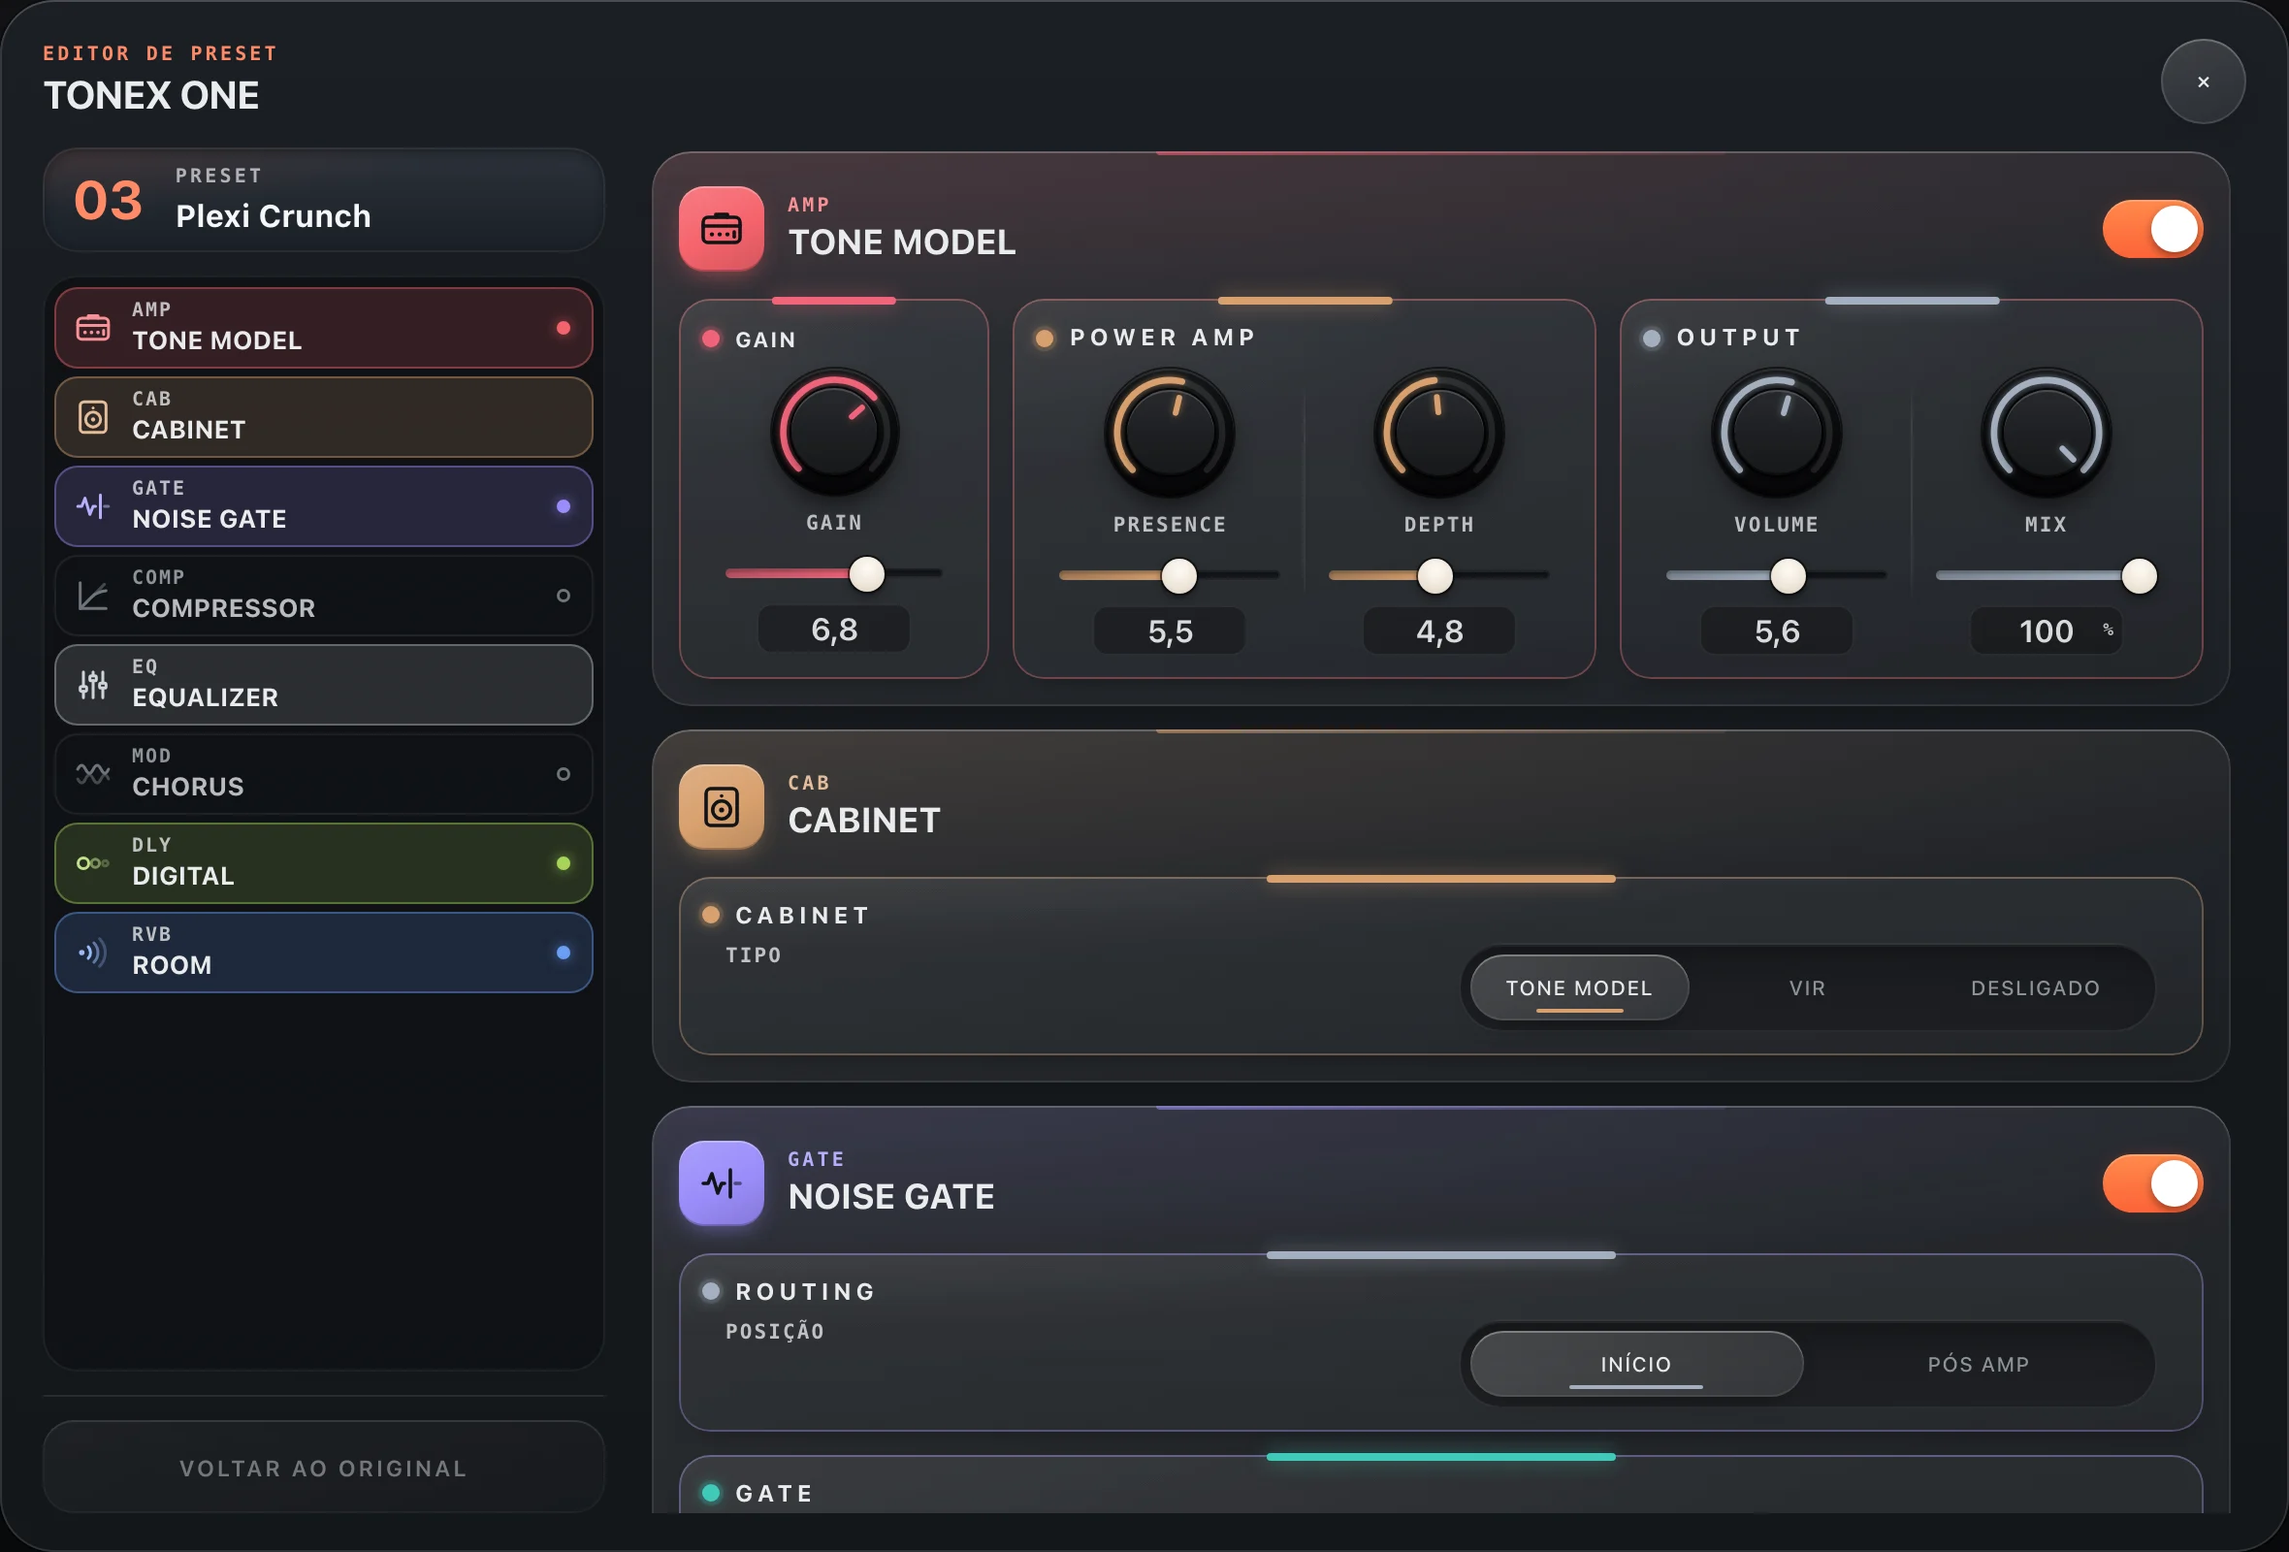
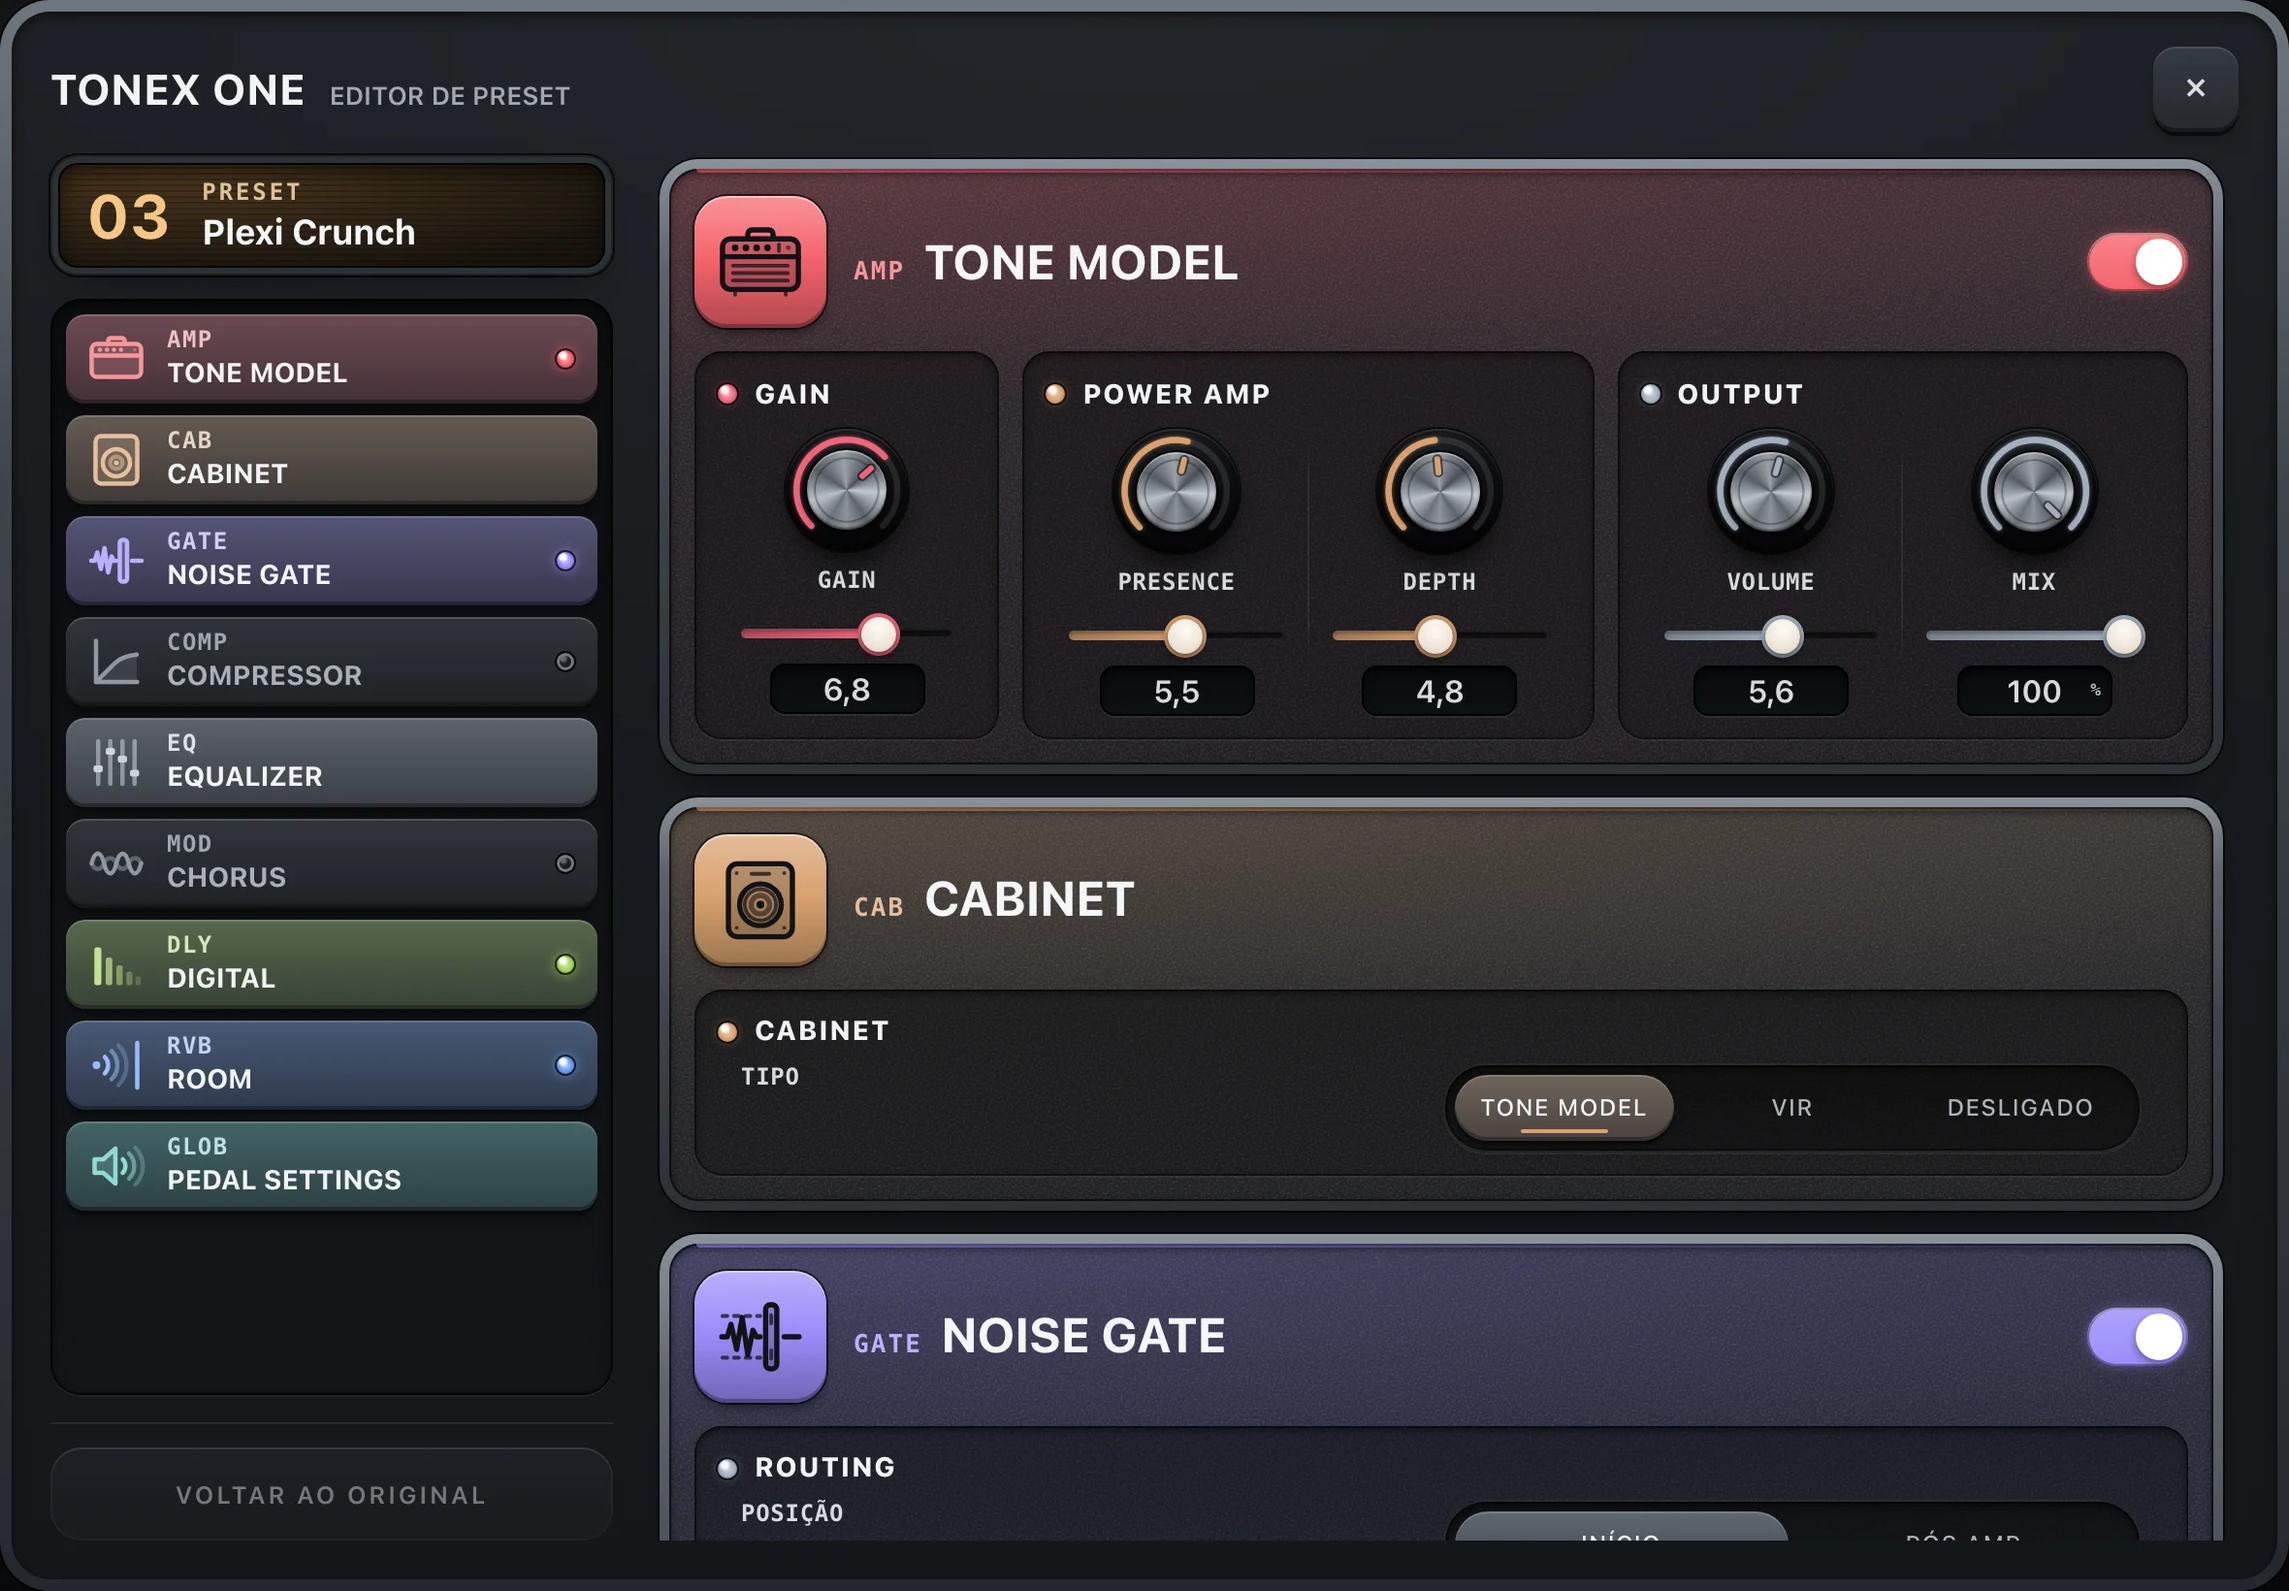
manual 2026-11-20 09:56

diff --git a/js/content.js b/js/content.js
@@ -7324,9 +7324,9 @@ const MN_CONTENT = {
     "es": "Edita en vivo el sonido de la Valeton GP-5 y GP-50, la IK TONEX ONE, la Neural DSP Nano Cortex y el Kemper Player — desde la propia BFMiDi, sin el software de computadora del fabricante."
    },
    "intro": {
-    "pt": "<p>Com o aparelho ligado na controladora, o editor da BFMiDi mostra o <strong>preset que está tocando no aparelho</strong> — blocos, modelos e parâmetros — e manda cada ajuste na hora, como os apps dos fabricantes.</p><p>A GP-5, a TONEX ONE e a Nano Cortex se ligam na porta <strong>USB HOST</strong> da controladora (BFMIDI-3 e BFMIDI-S3). O Kemper Player é ligado no contrário: a porta <strong>DEVICE</strong> da controladora na porta USB do Player.</p>",
-    "en": "<p>With the device connected to the controller, the BFMiDi editor shows the <strong>preset playing on the device</strong> — blocks, models and parameters — and sends each change instantly, just like the manufacturers' apps.</p><p>The GP-5, the TONEX ONE and the Nano Cortex plug into the controller's <strong>USB HOST</strong> port (BFMIDI-3 and BFMIDI-S3). The Kemper Player connects the other way around: the controller's <strong>DEVICE</strong> port goes into the Player's USB port.</p>",
-    "es": "<p>Con el aparato conectado a la controladora, el editor de la BFMiDi muestra el <strong>preset que está sonando en el aparato</strong> — bloques, modelos y parámetros — y envía cada ajuste al instante, como las apps de los fabricantes.</p><p>La GP-5, la TONEX ONE y la Nano Cortex se conectan al puerto <strong>USB HOST</strong> de la controladora (BFMIDI-3 y BFMIDI-S3). El Kemper Player se conecta al revés: el puerto <strong>DEVICE</strong> de la controladora va al puerto USB del Player.</p>"
+    "pt": "<p>Com o aparelho ligado na controladora, o editor da BFMiDi mostra o <strong>preset que está tocando no aparelho</strong> — blocos, modelos e parâmetros — e manda cada ajuste na hora, como os apps dos fabricantes.</p><p>O editor tem a cara de um aparelho: um visor com o preset, a cadeia de efeitos em teclas com LED (aceso = ligado) e cada efeito numa placa própria. No computador e no tablet ele abre numa janela, com o visor e a cadeia à esquerda e os efeitos à direita; no celular ocupa a tela inteira.</p><p>A GP-5, a TONEX ONE e a Nano Cortex se ligam na porta <strong>USB HOST</strong> da controladora (BFMIDI-3 e BFMIDI-S3). O Kemper Player é ligado no contrário: a porta <strong>DEVICE</strong> da controladora na porta USB do Player.</p>",
+    "en": "<p>With the device connected to the controller, the BFMiDi editor shows the <strong>preset playing on the device</strong> — blocks, models and parameters — and sends each change instantly, just like the manufacturers' apps.</p><p>The editor looks like a device: a display with the preset, the effect chain as keys with LEDs (lit = on) and each effect on its own plate. On a computer or tablet it opens in a window, with the display and the chain on the left and the effects on the right; on a phone it fills the whole screen.</p><p>The GP-5, the TONEX ONE and the Nano Cortex plug into the controller's <strong>USB HOST</strong> port (BFMIDI-3 and BFMIDI-S3). The Kemper Player connects the other way around: the controller's <strong>DEVICE</strong> port goes into the Player's USB port.</p>",
+    "es": "<p>Con el aparato conectado a la controladora, el editor de la BFMiDi muestra el <strong>preset que está sonando en el aparato</strong> — bloques, modelos y parámetros — y envía cada ajuste al instante, como las apps de los fabricantes.</p><p>El editor tiene cara de aparato: un visor con el preset, la cadena de efectos en teclas con LED (encendido = activo) y cada efecto en su propia placa. En la computadora y en la tablet se abre en una ventana, con el visor y la cadena a la izquierda y los efectos a la derecha; en el celular ocupa toda la pantalla.</p><p>La GP-5, la TONEX ONE y la Nano Cortex se conectan al puerto <strong>USB HOST</strong> de la controladora (BFMIDI-3 y BFMIDI-S3). El Kemper Player se conecta al revés: el puerto <strong>DEVICE</strong> de la controladora va al puerto USB del Player.</p>"
    },
    "cards": [
     {
@@ -7673,6 +7673,23 @@ const MN_CONTENT = {
         "pt": "<p>Com duas TONEX ONE plugadas, cada uma tem o seu editor e o seu canal MIDI (CONFIGURAÇÕES › HOST › APARELHOS). A TONEX 1 é a que está na porta de menor número do hub.</p>",
         "en": "<p>With two TONEX ONE units plugged in, each one has its own editor and its own MIDI channel (SETTINGS › HOST › DEVICES). TONEX 1 is the one on the hub's lowest-numbered port.</p>",
         "es": "<p>Con dos TONEX ONE conectadas, cada una tiene su propio editor y su propio canal MIDI (CONFIGURACIÓN › HOST › APARATOS). La TONEX 1 es la que está en el puerto de menor número del hub.</p>"
+       }
+      },
+      {
+       "name": {
+        "pt": "Ajustes do pedal (bloco GLOBAL)",
+        "en": "Pedal settings (GLOBAL block)",
+        "es": "Ajustes del pedal (bloque GLOBAL)"
+       },
+       "type": {
+        "pt": "bloco",
+        "en": "block",
+        "es": "bloque"
+       },
+       "desc": {
+        "pt": "<p>No fim da cadeia fica o bloco <strong>GLOBAL</strong>, com os ajustes que valem para <strong>todos os presets</strong> da TONEX ONE: <strong>Cab Sim</strong> (simulador de gabinete ligado ou desligado), <strong>Input Trim</strong> (ganho de entrada, de −15 a +15 dB), <strong>Tempo</strong> (GLOBAL ou do PRESET), <strong>BPM</strong> e <strong>Tuning Ref</strong> (a referência do afinador, de 415 a 465 Hz). Com o Tempo em PRESET, o BPM daqui é o do preset que está tocando. O VOLTAR AO ORIGINAL não mexe nesses ajustes. Precisa do USB Host 4.5 ou mais novo; antes disso o bloco aparece apagado, dizendo o que falta.</p>",
+        "en": "<p>At the end of the chain is the <strong>GLOBAL</strong> block, with the settings that apply to <strong>every preset</strong> on the TONEX ONE: <strong>Cab Sim</strong> (cabinet simulator on or off), <strong>Input Trim</strong> (input gain, from −15 to +15 dB), <strong>Tempo</strong> (GLOBAL or per PRESET), <strong>BPM</strong> and <strong>Tuning Ref</strong> (the tuner reference, from 415 to 465 Hz). With Tempo set to PRESET, the BPM here is the one of the preset that is playing. REVERT TO ORIGINAL does not touch these settings. It needs USB Host 4.5 or newer; before that, the block appears greyed out and says what's missing.</p>",
+        "es": "<p>Al final de la cadena está el bloque <strong>GLOBAL</strong>, con los ajustes que valen para <strong>todos los presets</strong> de la TONEX ONE: <strong>Cab Sim</strong> (simulador de gabinete encendido o apagado), <strong>Input Trim</strong> (ganancia de entrada, de −15 a +15 dB), <strong>Tempo</strong> (GLOBAL o del PRESET), <strong>BPM</strong> y <strong>Tuning Ref</strong> (la referencia del afinador, de 415 a 465 Hz). Con el Tempo en PRESET, el BPM de aquí es el del preset que está sonando. VOLVER AL ORIGINAL no toca estos ajustes. Necesita el USB Host 4.5 o más nuevo; antes de eso el bloque aparece apagado y dice qué falta.</p>"
        }
       }
      ]

diff --git a/js/snapshots.js b/js/snapshots.js
@@ -1,4 +1,4 @@
-/* BFMiDi · Manual — PRINTS do editor (v15.13).
+/* BFMiDi · Manual — PRINTS do editor (v15.19).
    Gerado por tools/capture_shots.mjs. NAO editar a mao: quando a tela
    do editor mudar, rode a captura de novo.
    { img, light?, w, h, kind?, hot: { seletor: [x, y, w, h] em fracao } } */
@@ -428,45 +428,47 @@ const MN_SHOTS = {
  "deved-gp5": {
   "img": "img/shots/deved-gp5.webp",
   "w": 1180,
-  "h": 800,
+  "h": 820,
   "hot": {
    ".bf-deved-lcd": [
-    0.0186,
-    0.095,
-    0.2458,
-    0.0675
+    0.0254,
+    0.1024,
+    0.239,
+    0.0659
    ],
    ".bf-deved-chain": [
-    0.0186,
-    0.1775,
+    0.022,
+    0.1878,
     0.2458,
-    0.5687
+    0.5549
    ],
    ".bf-deved-block-head": [
-    0.2966,
-    0.2425,
-    0.6661,
-    0.06
+    0.3034,
+    0.2524,
+    0.6525,
+    0.0829
    ],
    ".bf-deved-savename": [
-    0.0186,
-    0.7775,
+    0.022,
+    0.7756,
     0.2458,
-    0.055
+    0.0537
    ],
    ".bf-deved-actions": [
-    0.0186,
-    0.845,
+    0.022,
+    0.8415,
     0.2458,
-    0.13
+    0.1268
    ]
-  }
+  },
+  "light": "img/shots/deved-gp5.light.webp"
  },
  "deved-tonex": {
   "img": "img/shots/deved-tonex.webp",
   "w": 1180,
-  "h": 800,
-  "hot": {}
+  "h": 820,
+  "hot": {},
+  "light": "img/shots/deved-tonex.light.webp"
  },
  "stage-1": {
   "img": "img/shots/stage-1.webp",
@@ -613,8 +615,9 @@ const MN_SHOTS = {
  "deved-nano": {
   "img": "img/shots/deved-nano.webp",
   "w": 1180,
-  "h": 800,
-  "hot": {}
+  "h": 820,
+  "hot": {},
+  "light": "img/shots/deved-nano.light.webp"
  },
  "stage-2-nano": {
   "img": "img/shots/stage-2-nano.webp",
@@ -724,33 +727,34 @@ const MN_SHOTS = {
  "ked": {
   "img": "img/shots/ked.webp",
   "w": 1180,
-  "h": 800,
+  "h": 820,
   "hot": {
    ".bf-deved-lcd": [
-    0.0186,
-    0.095,
-    0.2458,
-    0.0757
+    0.0254,
+    0.1024,
+    0.239,
+    0.0797
    ],
    ".bf-ked-notes": [
-    0.0186,
-    0.1857,
+    0.022,
+    0.2016,
     0.2458,
-    0.1044
+    0.1018
    ],
    ".bf-deved-chain": [
-    0.0186,
-    0.305,
+    0.022,
+    0.3181,
     0.2458,
-    0.5087
+    0.4905
    ],
    ".bf-deved-actions": [
-    0.0186,
-    0.845,
+    0.022,
+    0.8415,
     0.2458,
-    0.13
+    0.1268
    ]
-  }
+  },
+  "light": "img/shots/ked.light.webp"
  },
  "stage-kemper": {
   "img": "img/shots/stage-kemper.webp",
